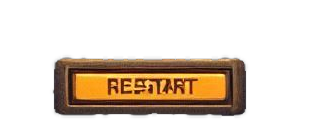
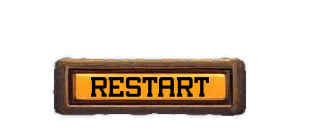
Changed the game lost scene so it is different.

Changed region(s): [[0.2839, 0.518, 0.6814, 0.7194]]

diff --git a/src/main/java/nz/ac/auckland/se206/controllers/GameLostController.java b/src/main/java/nz/ac/auckland/se206/controllers/GameLostController.java
@@ -1,0 +1,34 @@
+package nz.ac.auckland.se206.controllers;
+
+import java.io.IOException;
+import javafx.fxml.FXML;
+import javafx.scene.input.MouseEvent;
+import javafx.scene.shape.Rectangle;
+import javafx.stage.Stage;
+import nz.ac.auckland.se206.App;
+
+public class GameLostController extends MasterController {
+
+  @FXML private Rectangle restartRect;
+
+  /**
+   * Transitions to the second scene when the start button is clicked.
+   *
+   * @param event the mouse event triggered by clicking a rectangle
+   * @throws IOException if there is an I/O error
+   */
+  @FXML
+  public void changeScene(MouseEvent event) throws IOException {
+    // Correctly resets everything in the game and restarts the game properly so that the player can
+    // play again.
+    InitialSceneWithArtifactController.backgroundAudioManager.stopAudio();
+    ArchaeologistRoomController.setArchaeologistRoomVisited();
+    CollectorRoomController.setCollectorRoomVisited();
+    AuctioneerRoomController.setAuctioneerRoomVisited();
+    MainSceneController.setClueClicked();
+    timerManager.stopTimer();
+    Stage stage = (Stage) restartRect.getScene().getWindow();
+    App app = new App();
+    app.start(stage);
+  }
+}

diff --git a/src/main/java/nz/ac/auckland/se206/controllers/GuessingSceneController.java b/src/main/java/nz/ac/auckland/se206/controllers/GuessingSceneController.java
@@ -54,7 +54,7 @@ public class GuessingSceneController extends MasterController {
     MainSceneController.isUserAtGuessingScene = false;
     Rectangle button = (Rectangle) event.getSource();
     Scene sceneButtonIsIn = button.getScene();
-    sceneButtonIsIn.setRoot(SceneManager.getUiRoot(AppUi.GAMEOVER));
+    sceneButtonIsIn.setRoot(SceneManager.getUiRoot(AppUi.GAMELOST));
   }
 
   /**
@@ -68,7 +68,7 @@ public class GuessingSceneController extends MasterController {
     MainSceneController.isUserAtGuessingScene = false;
     Rectangle button = (Rectangle) event.getSource();
     Scene sceneButtonIsIn = button.getScene();
-    sceneButtonIsIn.setRoot(SceneManager.getUiRoot(AppUi.GAMEOVER));
+    sceneButtonIsIn.setRoot(SceneManager.getUiRoot(AppUi.GAMELOST));
   }
 
   /**

diff --git a/src/main/java/nz/ac/auckland/se206/App.java b/src/main/java/nz/ac/auckland/se206/App.java
@@ -74,6 +74,7 @@ public class App extends Application {
             SceneManager.addUi(SceneManager.AppUi.CRIMEEXPLANATION, loadFxml("crimeexplanation"));
             SceneManager.addUi(SceneManager.AppUi.GAMEOVER, loadFxml("gameover"));
             SceneManager.addUi(SceneManager.AppUi.LIGHTSOFFSCENE, loadFxml("lightsoffscene"));
+            SceneManager.addUi(SceneManager.AppUi.GAMELOST, loadFxml("gamelost"));
             AudioManager.addAudio(AudioManager.AudioType.BACKGROUNDMUSIC, "backgroundMusic");
             AudioManager.addAudio(AudioManager.AudioType.TYPEWRITER, "typewriteraudio");
             AudioManager.addAudio(AudioManager.AudioType.PAGEFLIP, "pageflip");

diff --git a/src/main/java/nz/ac/auckland/se206/SceneManager.java b/src/main/java/nz/ac/auckland/se206/SceneManager.java
@@ -24,6 +24,7 @@ public class SceneManager {
     PHONELOGARCHAEOLOGIST,
     PHONELOGCOLLECTOR,
     SECURITYFOOTAGE,
+    GAMELOST
   }
 
   private static HashMap<AppUi, Parent> sceneMap = new HashMap<AppUi, Parent>();
